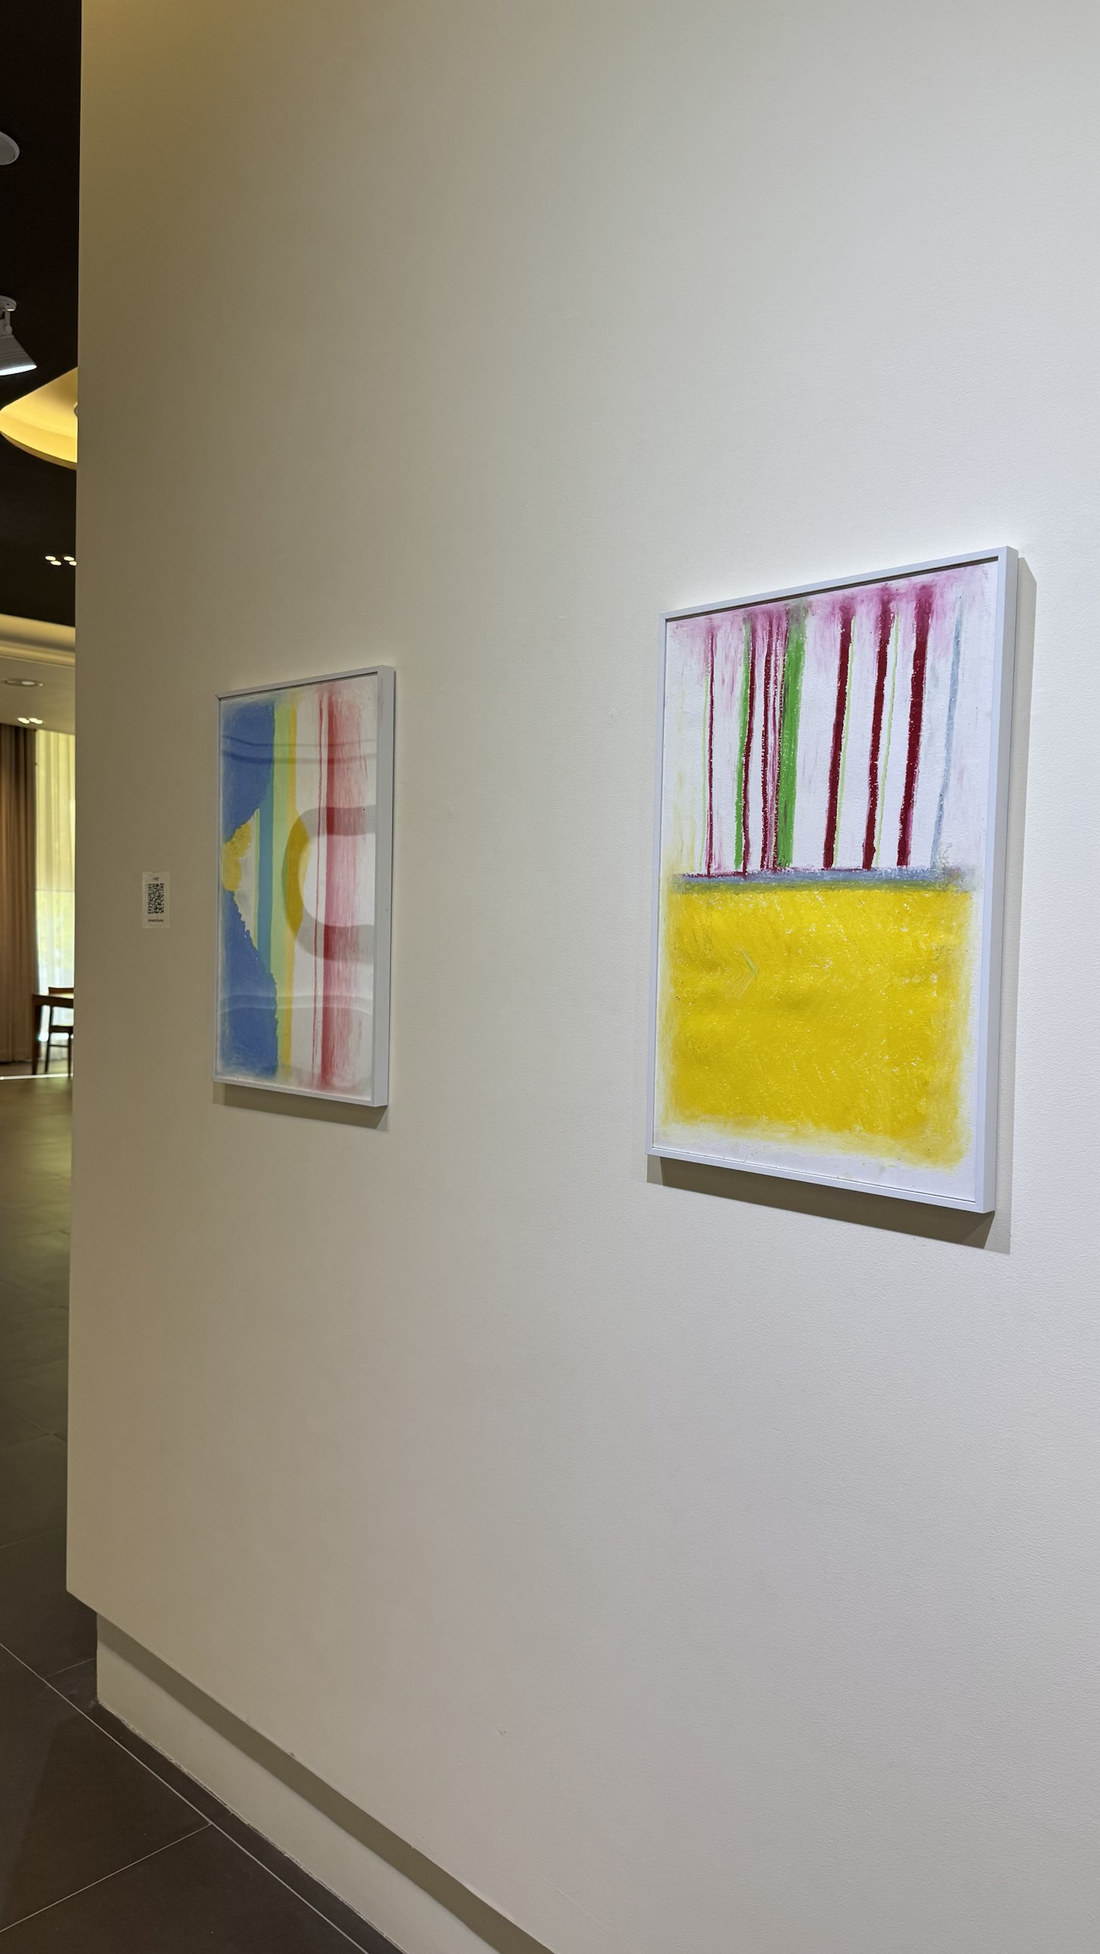
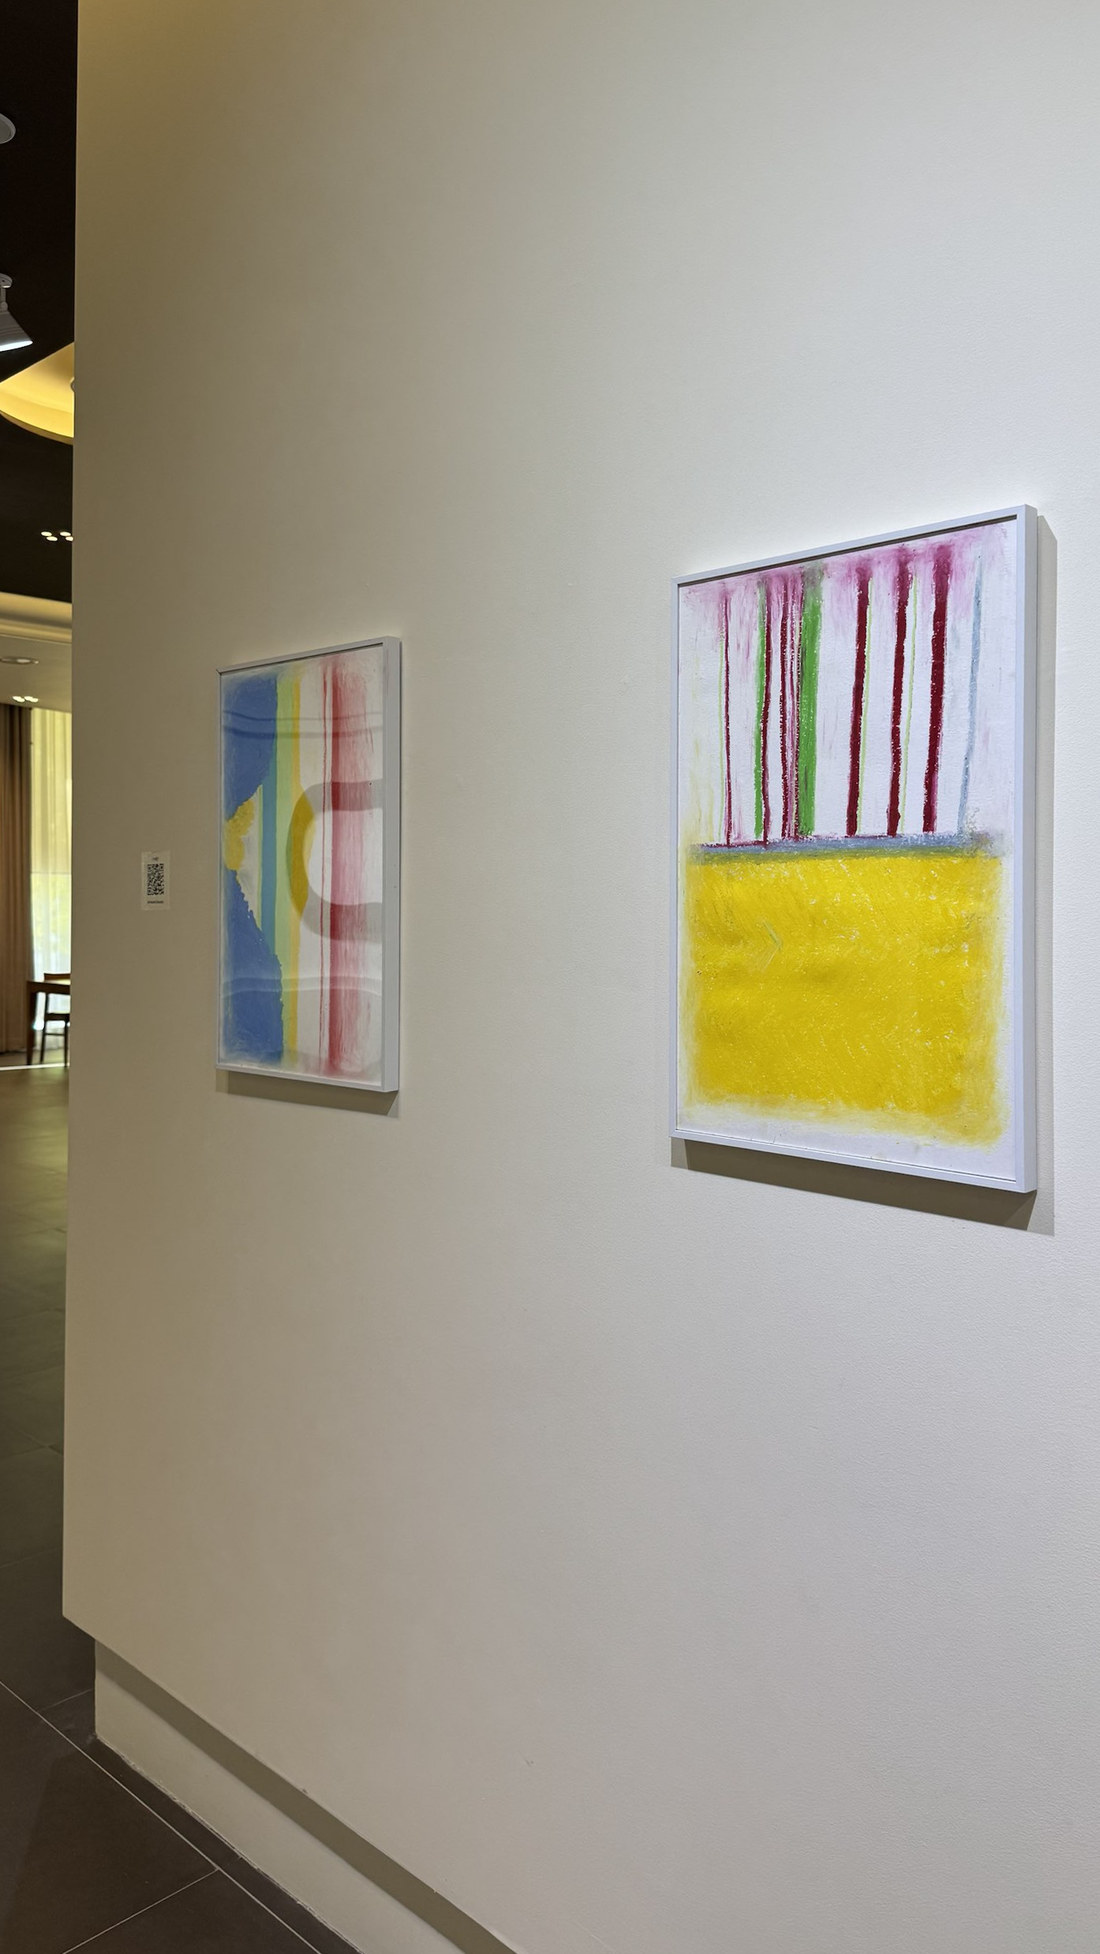
Straighten the close-up installation view of Hesitant Perspective
Claude-Session: https://claude.ai/code/session_013yxc27JAUonTPbz2LwGFrp

diff --git a/index.html b/index.html
@@ -294,7 +294,7 @@ a.nw:hover b{text-decoration:underline 1px;text-underline-offset:4px}
     <div class="ptx"><div class="ptop"><p class="crumb"><a href="#work">← All work</a></p><p class="tgl" role="group" aria-label="Description language"><button type="button" data-set-lang="en" lang="en">EN</button><button type="button" data-set-lang="ko" lang="ko">KO</button></p></div><h1><span class="ko" lang="ko">엉거주춤 원근법</span><span class="en" lang="en">Hesitant Perspective</span></h1><p class="meta"><span class="ko" lang="ko">오일파스텔 연작 · HELLO DAY : ART JAM 2026, 2026.10</span><span class="en" lang="en">Oil pastel series · HELLO DAY: ART JAM 2026, 2026.10</span></p><p class="d ko" lang="ko">침범하지 않으면서 가까워지려면 얼마나 가까이 가도 될까. 이 질문에서 시작한 오일파스텔 연작이다. 풍경을 바라볼 때 다가가고 물러서기를 되풀이하는 엉거주춤한 태도가 사람 사이의 관계에도 있다는 데서 출발해, 1km 밖에서부터 10cm 앞까지 여덟 가지 거리에서 풍경을 바라본 시선을 여덟 장에 담았다. 그림에는 정해진 방향이 없다. 옆으로도 거꾸로도 돌려 보고, 가까이서도 멀리서도 바라보며 나와 그림 사이의 알맞은 거리를 찾아보길 바란다.</p><p class="d en" lang="en">How close can we come without intruding? This series of oil pastel paintings began with that question. Looking at a landscape, 202 often steps closer and then back again, and came to see the same hesitant stance in the way people relate to one another. The eight paintings hold the gaze on a landscape from eight distances, from a kilometer away to ten centimeters in front. They have no fixed orientation: turn them sideways or upside down, look from near and far, and find the distance that feels right between you and the painting.</p><dl class="facts"><dt><span class="ko" lang="ko">전시</span><span class="en" lang="en">Exhibition</span></dt><dd><span class="ko" lang="ko">«HELLO DAY : ART JAM 2026 – Let Me Introduce Myself»</span><span class="en" lang="en">HELLO DAY: ART JAM 2026 – Let Me Introduce Myself</span></dd><dt><span class="ko" lang="ko">주최</span><span class="en" lang="en">Organized by</span></dt><dd><span class="ko" lang="ko">재단법인 빛이나, 라움아트센터 협력</span><span class="en" lang="en">Bichina Foundation, with Raum Art Center</span></dd><dt><span class="ko" lang="ko">기간</span><span class="en" lang="en">Dates</span></dt><dd><span class="ko" lang="ko">2026.10.23 – 11.1</span><span class="en" lang="en">23 Oct – 1 Nov 2026</span></dd><dt><span class="ko" lang="ko">장소</span><span class="en" lang="en">Venue</span></dt><dd><span class="ko" lang="ko">라움아트센터 1층 갤러리, 서울</span><span class="en" lang="en">Raum Art Center, 1F Gallery, Seoul</span></dd><dt><span class="ko" lang="ko">작품</span><span class="en" lang="en">Works</span></dt><dd><span class="ko" lang="ko">종이에 오일파스텔 8점, 각 60×40cm</span><span class="en" lang="en">Eight works, oil pastel on paper, 60 × 40 cm each</span></dd></dl></div>
     <div class="pim">
       <figure><img src="img/persp-1.jpg?v=3cb623af" width="1100" height="1954" loading="lazy" alt="라움아트센터 1층 갤러리의 긴 흰 벽에 나란히 걸린 「엉거주춤 원근법」 여덟 점" data-alt-ko="라움아트센터 1층 갤러리의 긴 흰 벽에 나란히 걸린 「엉거주춤 원근법」 여덟 점" data-alt-en="The eight paintings of Hesitant Perspective hung in a row along a long white wall at Raum Art Center"></figure>
-      <div class="g2"><figure><img src="img/persp-2.jpg?v=39e56e27" width="1100" height="1954" loading="lazy" alt="전시장 모퉁이 벽에 걸린 연작 네 점과 안쪽 벽의 액자들" data-alt-ko="전시장 모퉁이 벽에 걸린 연작 네 점과 안쪽 벽의 액자들" data-alt-en="Four paintings from the series on a corner wall, with framed works on the far wall"></figure><figure><img src="img/persp-3.jpg?v=daa91195" width="1100" height="1954" loading="lazy" alt="흰 액자에 넣어 건 연작의 첫 두 점" data-alt-ko="흰 액자에 넣어 건 연작의 첫 두 점" data-alt-en="The first two paintings of the series in white frames"></figure></div>
+      <div class="g2"><figure><img src="img/persp-2.jpg?v=39e56e27" width="1100" height="1954" loading="lazy" alt="전시장 모퉁이 벽에 걸린 연작 네 점과 안쪽 벽의 액자들" data-alt-ko="전시장 모퉁이 벽에 걸린 연작 네 점과 안쪽 벽의 액자들" data-alt-en="Four paintings from the series on a corner wall, with framed works on the far wall"></figure><figure><img src="img/persp-3.jpg?v=527f9c21" width="1100" height="1954" loading="lazy" alt="흰 액자에 넣어 건 연작의 첫 두 점" data-alt-ko="흰 액자에 넣어 건 연작의 첫 두 점" data-alt-en="The first two paintings of the series in white frames"></figure></div>
       <p class="cap"><span class="ko" lang="ko">설치 모습, «HELLO DAY : ART JAM 2026», 라움아트센터 1층 갤러리</span><span class="en" lang="en">Installation views, HELLO DAY: ART JAM 2026, Raum Art Center 1F Gallery</span></p>
       <p class="sub"><span class="ko" lang="ko">연작</span><span class="en" lang="en">The series</span></p>
       <div class="g4"><button type="button" data-lb="home" data-i="0" aria-label="Painting, view larger"><img src="img/p7.jpg?v=e42bbf16" width="693" height="1016" loading="lazy" alt="파란 산 모양과 노란 형태, 청록·연두·노랑 세로 띠, 빨간 세로선이 있는 회화" data-alt-ko="파란 산 모양과 노란 형태, 청록·연두·노랑 세로 띠, 빨간 세로선이 있는 회화" data-alt-en="Painting of a blue mountain shape, yellow forms, teal, green and yellow bands and red lines"></button><button type="button" data-lb="home" data-i="1" aria-label="Painting, view larger"><img src="img/p3.jpg?v=b1f8a0c3" width="749" height="1104" loading="lazy" alt="빨강과 초록 세로줄이 흘러내리고 아래쪽 절반이 노란 면인 회화" data-alt-ko="빨강과 초록 세로줄이 흘러내리고 아래쪽 절반이 노란 면인 회화" data-alt-en="Painting of red and green stripes running down into a yellow lower half"></button><button type="button" data-lb="home" data-i="2" aria-label="Painting, view larger"><img src="img/p2.jpg?v=bd0289af" width="839" height="1213" loading="lazy" alt="흰 바탕 위쪽에 청록 점이 한 줄로 이어지고, 주황 원 테두리와 빨간 십자 선이 있는 회화" data-alt-ko="흰 바탕 위쪽에 청록 점이 한 줄로 이어지고, 주황 원 테두리와 빨간 십자 선이 있는 회화" data-alt-en="Painting of a row of teal dots above an orange circle outline and red crossing lines on white"></button><button type="button" data-lb="home" data-i="3" aria-label="Painting, view larger"><img src="img/p1.jpg?v=611f60e0" width="833" height="1228" loading="lazy" alt="노란 면 위의 빨간 점들과 검은 세로선, 아래쪽 검은 둥근 사각형 두 개가 있는 회화" data-alt-ko="노란 면 위의 빨간 점들과 검은 세로선, 아래쪽 검은 둥근 사각형 두 개가 있는 회화" data-alt-en="Painting of red dots and black vertical lines on yellow, with two black rounded rectangles below"></button><button type="button" data-lb="home" data-i="4" aria-label="Painting, view larger"><img src="img/p4.jpg?v=19be5ed8" width="842" height="1258" loading="lazy" alt="굵은 파란 세로 띠와 가로 띠가 노란 면과 격자 사이를 가로지르는 회화" data-alt-ko="굵은 파란 세로 띠와 가로 띠가 노란 면과 격자 사이를 가로지르는 회화" data-alt-en="Painting of thick blue bands crossing yellow fields and a grid"></button><button type="button" data-lb="home" data-i="5" aria-label="Painting, view larger"><img src="img/p6.jpg?v=7e854baf" width="922" height="1290" loading="lazy" alt="검은 줄기로 이어진 빨간 원들과 아래쪽 검고 흰 반원 그릇 모양이 있는 회화" data-alt-ko="검은 줄기로 이어진 빨간 원들과 아래쪽 검고 흰 반원 그릇 모양이 있는 회화" data-alt-en="Painting of red circles on black stems above black and white half-circle bowls"></button><button type="button" data-lb="home" data-i="6" aria-label="Painting, view larger"><img src="img/p5.jpg?v=19a9abbd" width="834" height="1229" loading="lazy" alt="분홍과 파랑 면, 검은 면, 파란 동그라미 격자, 빨간 반달 세 개가 있는 회화" data-alt-ko="분홍과 파랑 면, 검은 면, 파란 동그라미 격자, 빨간 반달 세 개가 있는 회화" data-alt-en="Painting of pink, blue and black fields, a grid of blue circles and three red half-moons"></button></div>
